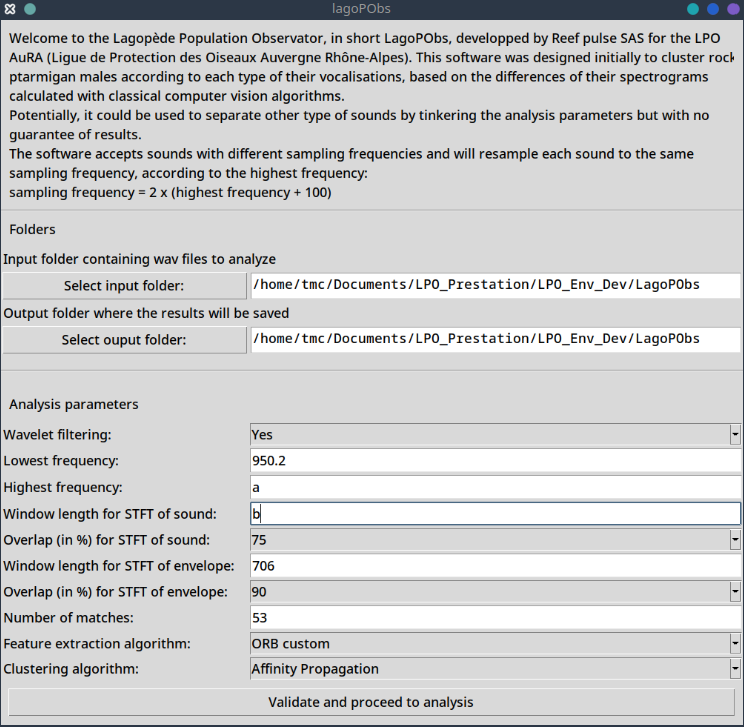
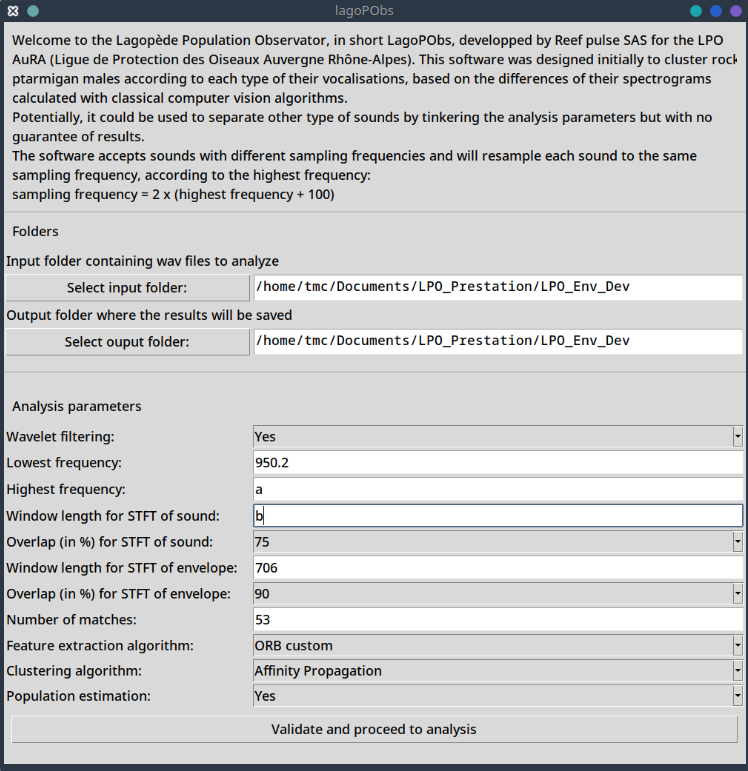
Modification README + LagoPObs

diff --git a/LagoPObs.py b/LagoPObs.py
@@ -25,7 +25,7 @@ default_lago_vars = [
     "53",
     "ORB custom",
     "Affinity Propagation",
-    "Yes"
+    "Yes",
 ]
 # Option for wavelet filtering
 wlt_filt_list = ["Yes", "No"]
@@ -43,6 +43,7 @@ algo_clustering_list = [
 ]
 # Choice for the estimation of population
 estim_pop_list = ["Yes", "No"]
+
 
 # Main window
 class LagoPopObsUI(tk.Tk):
@@ -309,7 +310,7 @@ class LagoPopObsUI(tk.Tk):
                 "Number of matches: ",
                 "Feature extraction algorithm: ",
                 "Clustering algorithm: ",
-                "Estimation of population: "
+                "Estimation of population: ",
             ]
             param_values = [
                 self.dir_input.get(),
@@ -324,7 +325,7 @@ class LagoPopObsUI(tk.Tk):
                 str(int(float(self.n_matches.get()))),
                 self.algo_features.get(),
                 self.algo_clustering.get(),
-                self.estim_pop.get()
+                self.estim_pop.get(),
             ]
             param_valid = [p[0] + p[1] for p in zip(param_list, param_values)]
             param_valid = [
@@ -399,11 +400,7 @@ class LagoPopObsUI(tk.Tk):
                 # Save the clustering results
                 # It is really important to create the DataFrame with a dict here
                 # otherwise, you will create dobjects and it can impede the cluster order in the following result and thus impede the quality of the results.
-                df_res = pd.DataFrame({
-                    "File": list_wavs,
-                    "Cluster": clusters
-                    }
-                )
+                df_res = pd.DataFrame({"File": list_wavs, "Cluster": clusters})
                 df_res.to_csv(param_values[1] + "/clustering_results.csv", index=False)
                 # Save the spectrograms with the keypoints in it
                 image_matching.save_spectros_keypoints(
@@ -414,18 +411,28 @@ class LagoPopObsUI(tk.Tk):
                 self.popup.update()
                 # If population estimation is asked
                 if param_values[12] == "Yes":
+                    self.update_progress(new_text="Population estimation...")
+                    self.popup.update()
                     try:
                         df_res_with_date = pop_estimation.add_date_to_df(df_res)
                     except ValueError:
-                        showerror(title="Wrong filename format!",
-                                  message="Population estimation not performed as the filenames format is wrong. Filenames must be split in different parts, separated by undescores, with the date in the second position and with the following format: yearmonthday. For example: 'xxxxx_20230619_xxxxxx.wav' means that the following file was recorded in June 13, 2023.")
+                        showerror(
+                            title="Wrong filename format!",
+                            message="Population estimation not performed as the filenames format is wrong. Filenames must be split in different parts, separated by undescores, with the date in the second position and with the following format: yearmonthday. For example: 'xxxxx_20230619_xxxxxx.wav' means that the following file was recorded in June 13, 2023.",
+                        )
                     else:
-                        n_clusts_per_day = pop_estimation.daily_vocalize_clusters(df_res_with_date)
+                        n_clusts_per_day = pop_estimation.daily_vocalize_clusters(
+                            df_res_with_date
+                        )
                         n_clusts_per_day.to_csv(
-                            param_values[1] + "/Number_of_clusters_per_day.csv", index=False
+                            param_values[1] + "/number_of_clusters_per_day.csv",
+                            index=False,
                         )
                         pres = pop_estimation.presence_clusters(df_res_with_date)
-                        pres.to_csv(param_values[1] + "/number_of_sounds_per_cluster_per_date.csv")
+                        pres.to_csv(
+                            param_values[1]
+                            + "/number_of_sounds_per_cluster_per_date.csv"
+                        )
                         pi_arr = pop_estimation.presence_index_arr(df_res_with_date)
                         pi_df = pd.DataFrame(
                             pi_arr,
@@ -436,17 +443,26 @@ class LagoPopObsUI(tk.Tk):
                                 "Presence_index",
                             ],
                         )
-                        sorted_pi_df = pi_df.sort_values(by="Presence_index", ascending=False)
-                        sorted_pi_df.to_csv(param_values[1] + "/presence_index.csv", index=False)
+                        sorted_pi_df = pi_df.sort_values(
+                            by="Presence_index", ascending=False
+                        )
+                        sorted_pi_df.to_csv(
+                            param_values[1] + "/presence_index.csv", index=False
+                        )
                         # Estimation of resident individuals according to Presence Index
                         n_indiv_resident = np.count_nonzero(pi_arr[:, 3] >= 0.01)
                         # Estimation of the whole population using Population Information Criterion
                         pi_pop = pop_estimation.population_presence_index(pi_arr, pres)
-                        n_indiv_tot, df_pic = pop_estimation.estimate_number_of_individuals(pi_pop)
+                        n_indiv_tot, df_pic = (
+                            pop_estimation.estimate_number_of_individuals(pi_pop)
+                        )
                         df_pic.to_csv(param_values[1] + "/PPI_PIC.csv", index=False)
                         # Update window
-                        self.update_progress(new_text=f"Population estimation:\nEstimated total number of individuals: {n_indiv_tot}\nEstimated number of resident individuals: {n_indiv_resident}")
+                        self.update_progress(
+                            new_text=f"done!\nEstimated total number of individuals: {n_indiv_tot}\nEstimated number of resident individuals: {n_indiv_resident}"
+                        )
                         self.popup.update()
+
                 # Button to close the popup
                 button_finish = ttk.Button(
                     self.popup,

diff --git a/tools/pop_estimation.py b/tools/pop_estimation.py
@@ -6,7 +6,7 @@ import pandas as pd
 
 def estimate_number_of_individuals(pi_pop):
     """
-    Some individual may be split into several clusters because their sounds are modified through time or that some individuals are only present really briefly or even because of noises. As such, the total number of clusters found during the analysis might be an overestimation of the population.
+    Some individuals may be split into several clusters because their sounds are modified through time or that some individuals are only present really briefly or even because of noises. As such, the total number of clusters found during the analysis might be an overestimation of the population.
 
     This function tries to estimate the number of individuals in the recorded population based on an information criterion inspired by the AIC (Akaike Information Criterion, [1]) and a generalization  of the Presence Index (see population_presence_index) to a population.
 

diff --git a/README.md b/README.md
@@ -6,9 +6,14 @@ Over and above the legal restrictions imposed by this license, if you use this s
 
 T. Marin-Cudraz, Y. Bayle, S. Elise, B. Drillat. LagoPObs: Lagopède Population Observator, a software to separate male ptarmigans indivuals from their sounds (2025). github.com/XXXXX.
 
+
+$$PI_k = \frac{N_{sons}(k)}{N_{sons}(total)} \times \frac{N_{jours}(k)}{N_{jours}(total)}  \qquad(1)$$
+
+
+
 # Installation
 
-The software is available as executables (generated using pyinstaller) for Windows and Linux that requires no dependencies. macOS can still execute the python code (see below) but will need the installation of the dependencies.
+The software is available as executables (generated using *pyinstaller*) for Windows and Linux that requires no dependencies. macOS can still execute the python code (see below) but will need the installation of the dependencies.
 
 If you want to execute the python code, you would need to install these libraries:
 
@@ -51,9 +56,9 @@ python LagPObs.py
 If you just want to study and use the underlining code of the analysis without the GUI, e.g. to use it in a pipeline or to test for different configuration at the same time, open and use the *demo_script.py* file.
 
 
-# Description of the interface
+# Interface description
 
-The GUI is simple and straightforward with a few buttons and fields:
+The GUI is simple with only a few buttons and fields:
 
 ![Graphical interface of LagoPObs](Readme/GUI_LagoPObs.png)
 
@@ -65,9 +70,8 @@ The *Wavelet filtering* option allow to activate/desactivate the option for the 
 
 The lowest and highest frequency set the frequency bandwidth of the bandpass filtering (an order 10 butterworth filter). The *Highest frequency* parameter is really important as it will also conditioned the new sampling rate at which the sounds will be resampled using the formula:
 
-```
-new sampling rate = 2*(Highest frequency + 100)
-```
+$$new sampling rate = 2 \times (Highest frequency + 100)$$
+
 
 100 is added to avoid frequency aliasing at some frequencies of interest. The choice of the *Highest frequency* is thus critical. It also implies that the temporal resolution of your spectrograms will be modified so be sure to check that the window lengths are still appropriate when modifying this parameter.
 
@@ -77,12 +81,19 @@ The *Feature extraction algorithm* parameter configures the feature extraction a
 
 
 
+
+
 # References
+
+[1] Rublee, E., Rabaud, V., Konolige, K., & Bradski, G. (2011, November). ORB: An efficient alternative to SIFT or SURF. In 2011 International conference on computer vision (pp. 2564-2571). Ieee.
+
+[2] https://docs.opencv.org/4.x/d1/d89/tutorial_py_orb.html
 
 [1] Lee, G., Gommers, R., Waselewski, F., Wohlfahrt, K., & O'Leary, A. (2019). PyWavelets: A Python package for wavelet analysis. Journal of Open Source Software, 4(36), 1237.
 
 [2] https://en.wikipedia.org/wiki/Stationary_wavelet_transform
 
+[3] Rublee, E., Rabaud, V., Konolige, K., & Bradski, G. (2011, November). ORB: An efficient alternative to SIFT or SURF. In 2011 International conference on computer vision (pp. 2564-2571). Ieee.
 
 [3] https://docs.opencv.org/4.x/d1/d89/tutorial_py_orb.html
 
